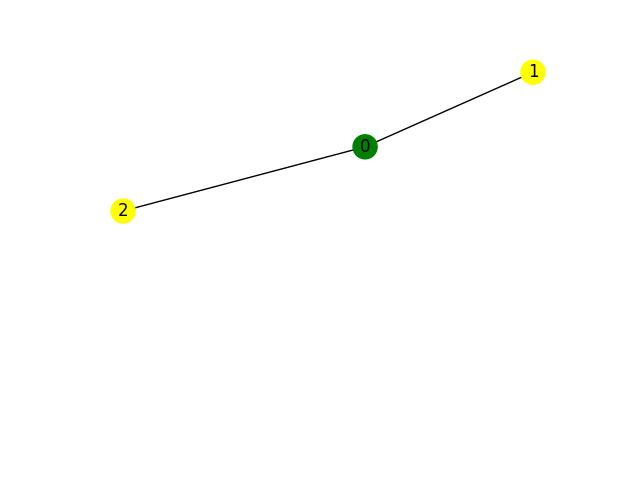
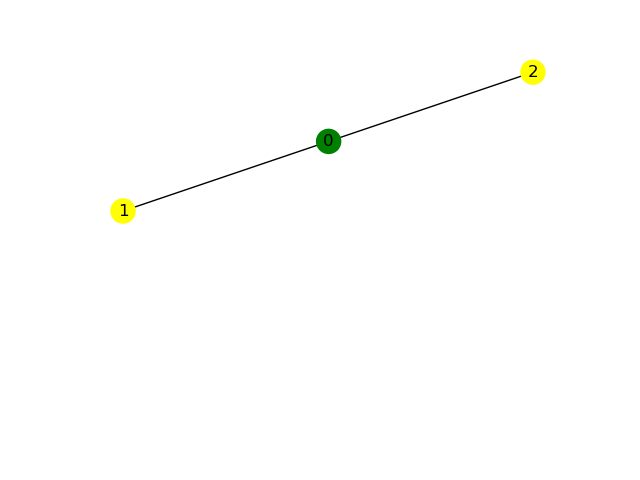
minor-issue

Changed region(s): [[0.2812, 0.1562, 0.8125, 0.4062], [0.1875, 0.4062, 0.2812, 0.4375], [0.8125, 0.125, 0.8438, 0.1562]]

diff --git a/color-reversal-by-local-complementation/02-lcOnAsequenceOfVertices/02-kumud-localComplementationOnAsequenceOfVertices.cpp b/color-reversal-by-local-complementation/02-lcOnAsequenceOfVertices/02-kumud-localComplementationOnAsequenceOfVertices.cpp
@@ -856,7 +856,7 @@ void f12_checkIdentical(vector<vector<vector<int>>> allGraphs, vector<vector<int
 	for(i3_graphCurrent = allGraphs.begin(), thatBicoloration = allBicoloration.begin(); i3_graphCurrent != allGraphs.end(); i3_graphCurrent++, thatBicoloration++) {
 		vector<vector<int>> graphRHS = *i3_graphCurrent;
 		vector<vector<int>>::iterator iLHS, iRHS;
-
+		checkEqualOrNot = yesEqual;
 		for(iLHS = graphLHS.begin(), iRHS = graphRHS.begin(); iLHS != graphLHS.end(); iLHS++, iRHS++) {
 			vector<int> rowLHS, rowRHS;
 			vector<int>::iterator i4, i5;

diff --git a/color-reversal-by-local-complementation/03-lcOnAsequenceOfLexicographicallySortedVertices/03-kumud-localComplementation.cpp b/color-reversal-by-local-complementation/03-lcOnAsequenceOfLexicographicallySortedVertices/03-kumud-localComplementation.cpp
@@ -902,7 +902,7 @@ void f12_checkIdentical(vector<vector<vector<int>>> allGraphs, vector<vector<int
 	for(i3_graphCurrent = allGraphs.begin(), thatBicoloration = allBicoloration.begin(); i3_graphCurrent != allGraphs.end(); i3_graphCurrent++, thatBicoloration++) {
 		vector<vector<int>> graphRHS = *i3_graphCurrent;
 		vector<vector<int>>::iterator iLHS, iRHS;
-
+checkEqualOrNot = yesEqual;
 		for(iLHS = graphLHS.begin(), iRHS = graphRHS.begin(); iLHS != graphLHS.end(); iLHS++, iRHS++) {
 			vector<int> rowLHS, rowRHS;
 			vector<int>::iterator i4, i5;

diff --git a/color-reversal-by-local-complementation/02-lcOnAsequenceOfVertices/graph5-01020.py b/color-reversal-by-local-complementation/02-lcOnAsequenceOfVertices/graph5-01020.py
@@ -2,7 +2,7 @@ import networkx as nx
 import matplotlib.pyplot as plt
 G = nx.Graph() 
 plt.subplot(211)
-G.add_edges_from([(0, 1), (0, 2), (1, 0), (2, 0)])
-nx.set_node_attributes(G, {0: 'green', 1: 'yellow', 2: 'yellow'}, name='color')
+G.add_edges_from([(0, 1), (0, 2), (1, 0), (1, 2), (2, 0), (2, 1)])
+nx.set_node_attributes(G, {0: 'yellow', 1: 'green', 2: 'green'}, name='color')
 nx.draw(G, with_labels=True, node_color=list(nx.get_node_attributes(G, 'color').values()))
-plt.savefig('graph5-01021.png')
+plt.savefig('graph5-01020.png')

diff --git a/color-reversal-by-local-complementation/02-lcOnAsequenceOfVertices/graph6-010202.py b/color-reversal-by-local-complementation/02-lcOnAsequenceOfVertices/graph6-010202.py
@@ -2,7 +2,7 @@ import networkx as nx
 import matplotlib.pyplot as plt
 G = nx.Graph() 
 plt.subplot(211)
-G.add_edges_from([(0, 1), (0, 2), (1, 0), (2, 0)])
-nx.set_node_attributes(G, {0: 'yellow', 1: 'yellow', 2: 'yellow'}, name='color')
+G.add_edges_from([(0, 2), (1, 2), (2, 0), (2, 1)])
+nx.set_node_attributes(G, {0: 'green', 1: 'yellow', 2: 'green'}, name='color')
 nx.draw(G, with_labels=True, node_color=list(nx.get_node_attributes(G, 'color').values()))
-plt.savefig('graph6-010212.png')
+plt.savefig('graph6-010202.png')

diff --git a/color-reversal-by-local-complementation/02-lcOnAsequenceOfVertices/graph8-01020212.py b/color-reversal-by-local-complementation/02-lcOnAsequenceOfVertices/graph8-01020212.py
@@ -2,7 +2,7 @@ import networkx as nx
 import matplotlib.pyplot as plt
 G = nx.Graph() 
 plt.subplot(211)
-G.add_edges_from([(0, 1), (1, 0), (1, 2), (2, 1)])
+G.add_edges_from([(0, 1), (0, 2), (1, 0), (1, 2), (2, 0), (2, 1)])
 nx.set_node_attributes(G, {0: 'yellow', 1: 'green', 2: 'yellow'}, name='color')
 nx.draw(G, with_labels=True, node_color=list(nx.get_node_attributes(G, 'color').values()))
-plt.savefig('graph9-010212101.png')
+plt.savefig('graph8-01020212.png')

diff --git a/color-reversal-by-local-complementation/02-lcOnAsequenceOfVertices/graph9-010202121.py b/color-reversal-by-local-complementation/02-lcOnAsequenceOfVertices/graph9-010202121.py
@@ -2,7 +2,7 @@ import networkx as nx
 import matplotlib.pyplot as plt
 G = nx.Graph() 
 plt.subplot(211)
-G.add_edges_from([(0, 1), (0, 2), (1, 0), (1, 2), (2, 0), (2, 1)])
+G.add_edges_from([(0, 1), (1, 0), (1, 2), (2, 1)])
 nx.set_node_attributes(G, {0: 'green', 1: 'green', 2: 'green'}, name='color')
 nx.draw(G, with_labels=True, node_color=list(nx.get_node_attributes(G, 'color').values()))
-plt.savefig('graph8-01021210.png')
+plt.savefig('graph9-010202121.png')

diff --git a/color-reversal-by-local-complementation/02-lcOnAsequenceOfVertices/graph7-0102021.py b/color-reversal-by-local-complementation/02-lcOnAsequenceOfVertices/graph7-0102021.py
@@ -2,7 +2,7 @@ import networkx as nx
 import matplotlib.pyplot as plt
 G = nx.Graph() 
 plt.subplot(211)
-G.add_edges_from([(0, 1), (0, 2), (1, 0), (2, 0)])
+G.add_edges_from([(0, 2), (1, 2), (2, 0), (2, 1)])
 nx.set_node_attributes(G, {0: 'green', 1: 'yellow', 2: 'yellow'}, name='color')
 nx.draw(G, with_labels=True, node_color=list(nx.get_node_attributes(G, 'color').values()))
-plt.savefig('graph7-0102121.png')
+plt.savefig('graph7-0102021.png')

diff --git a/color-reversal-by-local-complementation/README.md b/color-reversal-by-local-complementation/README.md
@@ -128,6 +128,10 @@ make kumud02 graph=../input/input2 sequence="0 1 2"
 
 This command will perform `local complementaion` on the `input2` graph using the sequence `0 1 2`.
 
+Another example is the following command:
+```shell
+make kumud02 graph=../input/input5 sequence="0 1 0 2 0 2 1 2 1"
+```
 3. The results are available in the two files, `equalOrNot` and `theoutput`.
 
 4. All output graphs are visible in the `.png` format.
